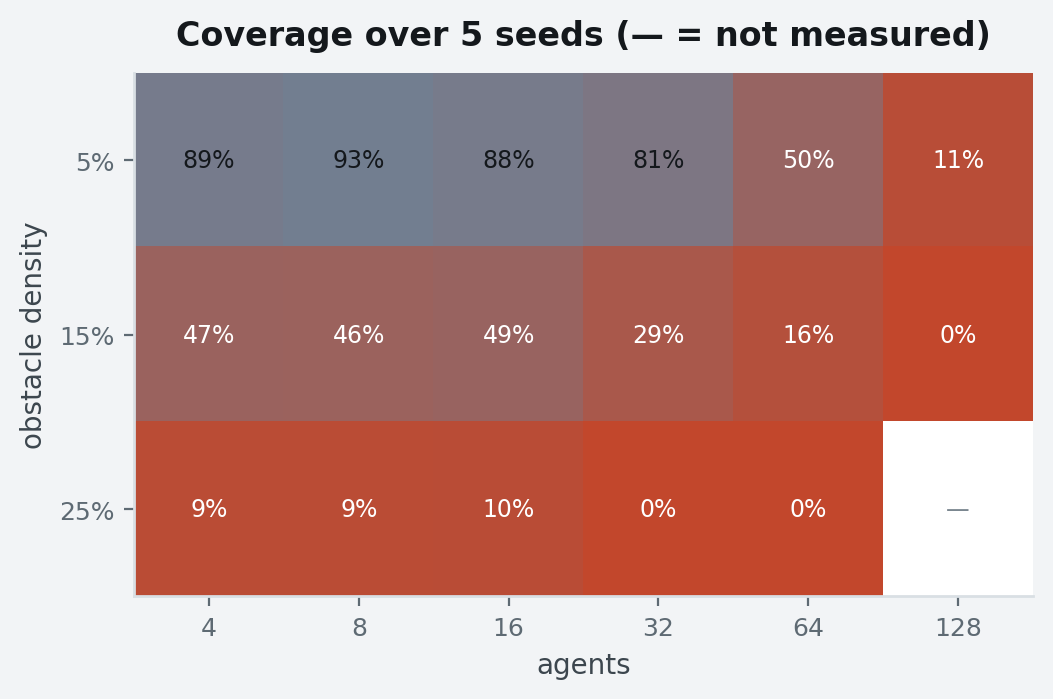
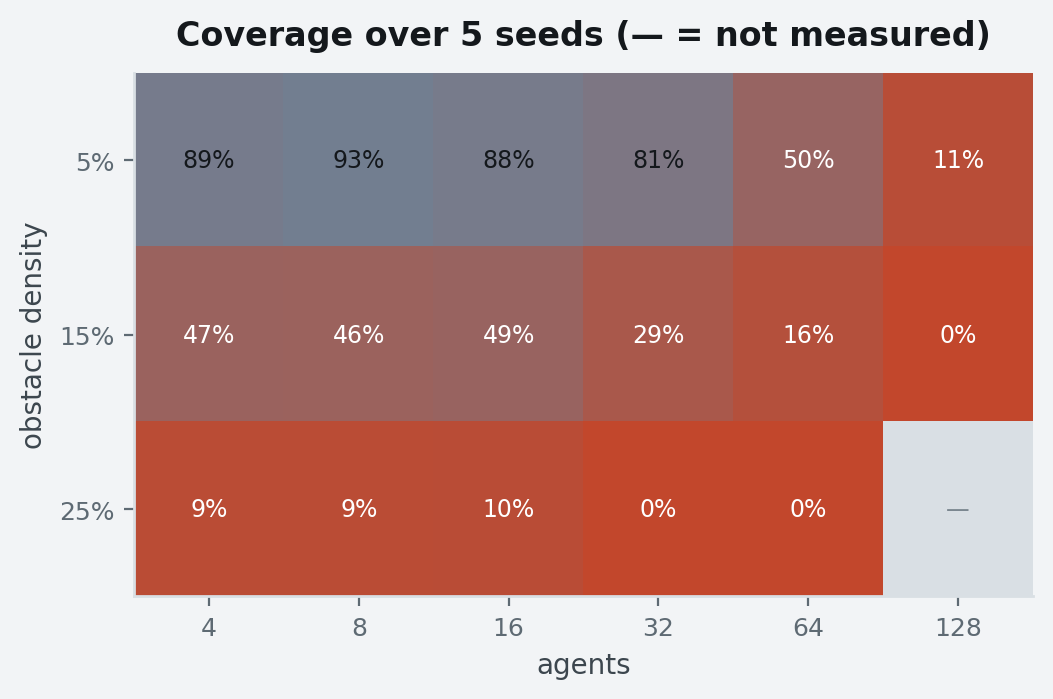
An unmeasured heatmap cell is structure, not a value
Masked cells rendered transparent, showing the white panel through, which
on a warm-to-cool coverage ramp reads as a reading off the top of the
scale. They now take `line` — the same value as an obstacle — so the hole
in the data looks like a hole in the data.

Changed region(s): [[0.8205, 0.6009, 1.0, 0.8712]]

diff --git a/planviz/benchmarks.py b/planviz/benchmarks.py
@@ -284,6 +284,11 @@ def success_heatmap(
         cmap = LinearSegmentedColormap.from_list(
             "coverage", [tokens.path, tokens.expanded], N=256
         )
+        # An unmeasured cell takes ``line`` — the same value as an obstacle,
+        # because it is structure rather than data. Left transparent it shows
+        # the panel through, which on a warm-to-cool ramp reads as a value.
+        cmap = cmap.copy()
+        cmap.set_bad(tokens.line)
         ax.imshow(
             np.ma.masked_invalid(values),
             cmap=cmap,

diff --git a/tests/test_figures.py b/tests/test_figures.py
@@ -207,6 +207,12 @@ def test_success_heatmap(dark, tmp_path):
     )
     texts = {text.get_text() for text in ax.texts}
     assert "—" in texts, "an unmeasured cell must not read as zero"
+    # ...and must not read as a value either: it takes `line`, the obstacle
+    # colour, because it is structure rather than data.
+    import matplotlib.colors as mcolors
+
+    tokens = planviz.tokens.get(dark)
+    assert mcolors.to_hex(ax.images[0].cmap.get_bad()) == tokens.line
     _rendered(ax, tmp_path, f"success-{dark}")
 
 
